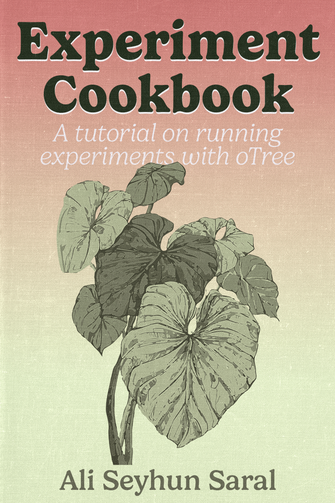
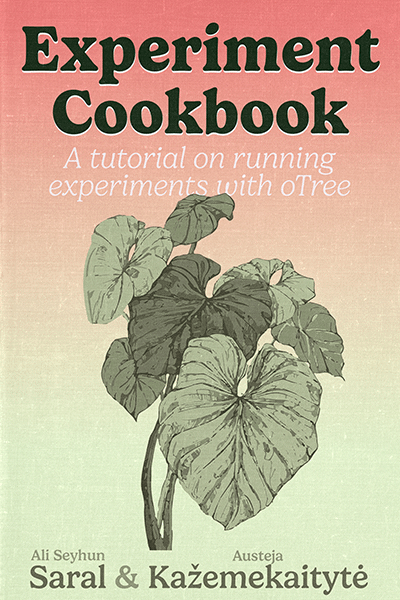
austeja add

diff --git a/index.html b/index.html
@@ -455,12 +455,15 @@ six centuries of institutional change
                                 <div class="row">
                                     <div class="col-md-9">
                                         <h4 class="card-title mt-4 font-weight-bold"> Experiment Cookbook: A tutorial on oTree programming </h4>
+                                        <p class="card-text blockquote"> with Austėja Kažemekaitytė
+
+                                        </p>
                                         <p class="card-text blockquote"></p>
                                         <p class="card-text">
                                             oTree is a Python-based framework for developing interactive experiments for behavioral and experimental economics.
                                         </p>
                                         <p class="card-text">
-                                            In this online book, I provide a tutorial on oTree programming as well as a collection of recipes for common tasks and problems in oTree.
+                                            In this online book, we provide a tutorial on oTree programming as well as a collection of recipes for common tasks and problems in oTree.
                                         </p>
 
                                         <p class="card-text">
@@ -469,10 +472,12 @@ six centuries of institutional change
                                         <p class="card-text"> The book is currently in progress (delayed to <strong> January 2025</strong>). You can find the latest version of the book on the book's website. </p>
 
                                         
+                                        
                                         <div class="type-indicator">
                                             <i class="fa-solid fa-book"></i>
                                             <span class="type-text">Book</span>
                                         </div>
+                                        
                                     </div>
                                     <div class="col-md-3">
                                         <p class="card-text">
